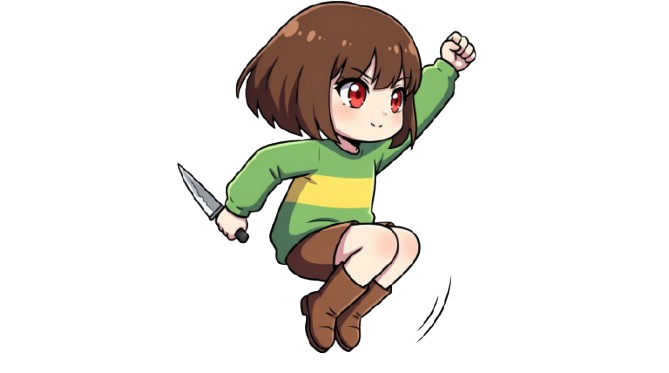
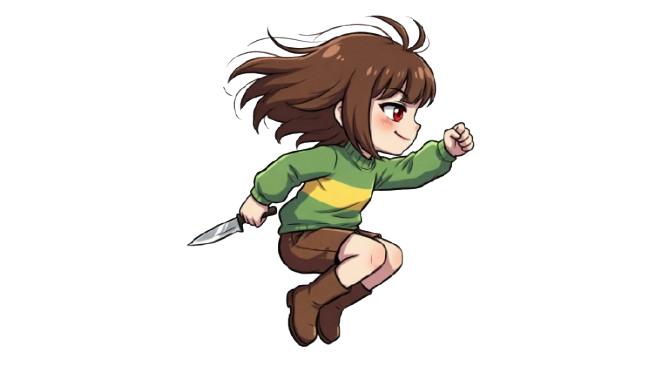
Add files via upload

Changed region(s): [[0.2691, 0.0, 0.7175, 0.9437], [0.6278, 0.7668, 0.6876, 0.9142]]

diff --git a/index.html b/index.html
@@ -23,7 +23,7 @@ const AWARD_EVERY=1000;
 let AC=null;
 function beep(f,d,type,vol,slide){
   try{
-    AC=AC||new (window.AudioContext||window.webkitAudioContext());
+    AC=AC||new (window.AudioContext||window.webkitAudioContext)();
     const o=AC.createOscillator(),g=AC.createGain();
     o.type=type||'square';o.frequency.value=f;
     if(slide)o.frequency.exponentialRampToValueAtTime(slide,AC.currentTime+d);
@@ -92,7 +92,7 @@ function toggleBGM(){
 /* ============ 最高分 ============ */
 let best=+localStorage.getItem('runner_best')||0,newRec=false;
 
-/* ============ 手感包：粒子／飄字／震動／白閃／squash ============ */
+/* ============ 手感包 ============ */
 let parts=[],floats=[],shake=0,flash=0,squash=0;
 function puff(x,y,n,col,spd,up){
   for(let i=0;i<n;i++){
@@ -193,9 +193,39 @@ function loadImg(src){
   };
   im.src=src;return im;
 }
+/* 跑步 sprite sheet：自動切幀＋清地平線＋每幀正規化 */
+function loadSheet(src,n){
+  const im=new Image();im.ok=false;im.frames=[];
+  im.onerror=()=>console.log('❌ 載入失敗：'+src);
+  im.onload=()=>{
+    try{
+      const w=im.width,h=im.height;
+      const c=document.createElement('canvas');c.width=w;c.height=h;
+      const g=c.getContext('2d');g.drawImage(im,0,0);
+      const d=g.getImageData(0,0,w,h);
+      removeBG(d.data,w,h);
+      for(let y=Math.floor(h*.8);y<h;y++){
+        let cnt=0;
+        for(let x=0;x<w;x++)if(d.data[(y*w+x)*4+3]>0)cnt++;
+        if(cnt>w*.9)for(let x=0;x<w;x++)d.data[(y*w+x)*4+3]=0;
+      }
+      g.putImageData(d,0,0);
+      const fw=Math.floor(w/n);
+      for(let i=0;i<n;i++){
+        const f=document.createElement('canvas');f.width=fw;f.height=h;
+        f.getContext('2d').drawImage(c,i*fw,0,fw,h,0,0,fw,h);
+        im.frames.push(trimAlpha(f));
+      }
+    }catch(e){}
+    im.ok=im.frames.length>0;
+  };
+  im.src=src;return im;
+}
 
 /* ============ 素材 PNG（選用） ============ */
 const FLIP=false;
+const RUN_ANIM=true;
+const runSheet=loadSheet('player_sheet.png',4);   // 可愛 cool 女主四幀 sheet 優先
 const runImgs=[loadImg('player_run1.png'),loadImg('player_run2.png')];
 const jumpImg=loadImg('player_jump.png');
 const heartImgs=[
@@ -211,14 +241,16 @@ const coinIcon=loadImg('Coin.png');
 const awImgs=[loadImg('Award_1.png'),loadImg('Award_2.png')];
 
 function drawSprite(){
-  let img=null;
-  if(!player.onGround&&jumpImg.ok)img=jumpImg;
+  const p=player;
+  let tex=null;
+  if(!p.onGround&&jumpImg.ok)tex=jumpImg.tex;
+  else if(runSheet.ok&&runSheet.frames.length)
+    tex=runSheet.frames[Math.floor(runPhase/5)%runSheet.frames.length];
   else{
     const ok=runImgs.filter(i=>i.ok);
-    if(ok.length)img=ok[Math.floor(runPhase/6)%ok.length];
+    if(ok.length)tex=(RUN_ANIM?ok[Math.floor(runPhase/6)%ok.length]:ok[0]).tex;
   }
-  if(!img)return false;
-  const tex=img.tex,p=player;
+  if(!tex)return false;
   const airH=GROUND_Y-(p.y+p.h);
   ctx.fillStyle='rgba(0,0,0,.35)';
   ctx.beginPath();ctx.ellipse(p.x+p.w/2,GROUND_Y+8,Math.max(10,26-airH*.12),5,0,0,7);ctx.fill();
@@ -466,10 +498,11 @@ function drawGold(c){
   ctx.fillStyle='#ffcf3f';ctx.beginPath();ctx.arc(c.x,c.y,c.r,0,Math.PI*2);ctx.fill();
   ctx.shadowBlur=0;ctx.strokeStyle='#d9a416';ctx.lineWidth=3;ctx.stroke();ctx.restore();
 }
+/* 內建角色：固定手臂（持刀不晃） */
 function drawPlayer(){
   const p=player;
   const bounce=(p.onGround&&started&&!gameOver)?-Math.abs(Math.sin(runPhase*Math.PI/6))*2.5:0;
-  const x=p.x,y=p.y+bounce,leg=Math.sin(runPhase)*8,arm=Math.sin(runPhase)*5;
+  const x=p.x,y=p.y+bounce,leg=Math.sin(runPhase)*8;
   const airH=GROUND_Y-(p.y+p.h);
   ctx.fillStyle='rgba(0,0,0,.35)';
   ctx.beginPath();ctx.ellipse(p.x+p.w/2,GROUND_Y+8,Math.max(10,26-airH*.12),5,0,0,7);ctx.fill();
@@ -480,8 +513,8 @@ function drawPlayer(){
   ctx.beginPath();ctx.moveTo(x+14,y+p.h-6);ctx.lineTo(x+14+leg,y+p.h+2);ctx.stroke();
   ctx.beginPath();ctx.moveTo(x+26,y+p.h-6);ctx.lineTo(x+26-leg,y+p.h+2);ctx.stroke();
   ctx.strokeStyle='#e53935';ctx.lineWidth=5;
-  ctx.beginPath();ctx.moveTo(x+10,y+20);ctx.lineTo(x+10-arm,y+30);ctx.stroke();
-  ctx.beginPath();ctx.moveTo(x+30,y+20);ctx.lineTo(x+30+arm,y+30);ctx.stroke();
+  ctx.beginPath();ctx.moveTo(x+10,y+20);ctx.lineTo(x+6,y+30);ctx.stroke();
+  ctx.beginPath();ctx.moveTo(x+30,y+20);ctx.lineTo(x+34,y+30);ctx.stroke();
   ctx.fillStyle='#e53935';rr(x+4,y+16,32,26,8);ctx.fill();
   ctx.fillStyle='#ffd54f';ctx.fillRect(x+4,y+25,32,5);
   ctx.fillStyle='#ffe0c2';ctx.beginPath();ctx.arc(x+20,y+10,12,0,Math.PI*2);ctx.fill();
